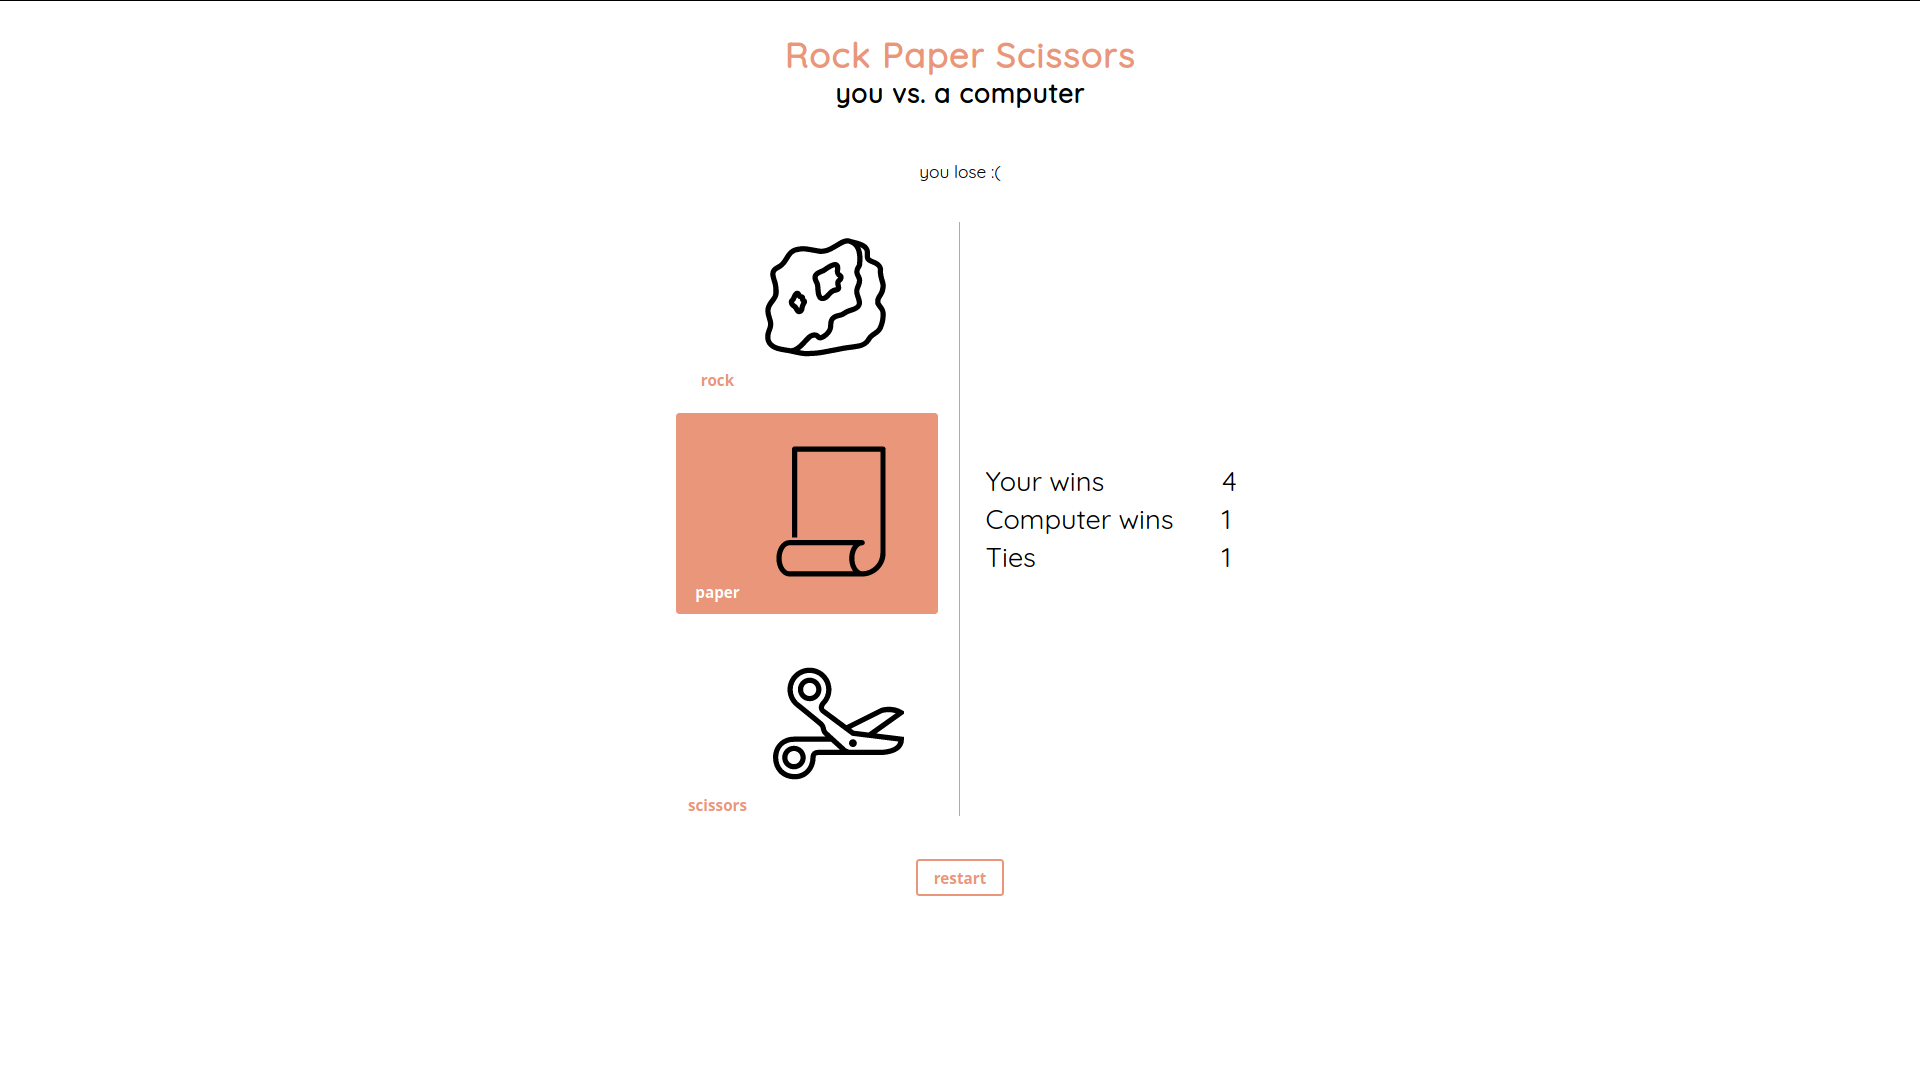
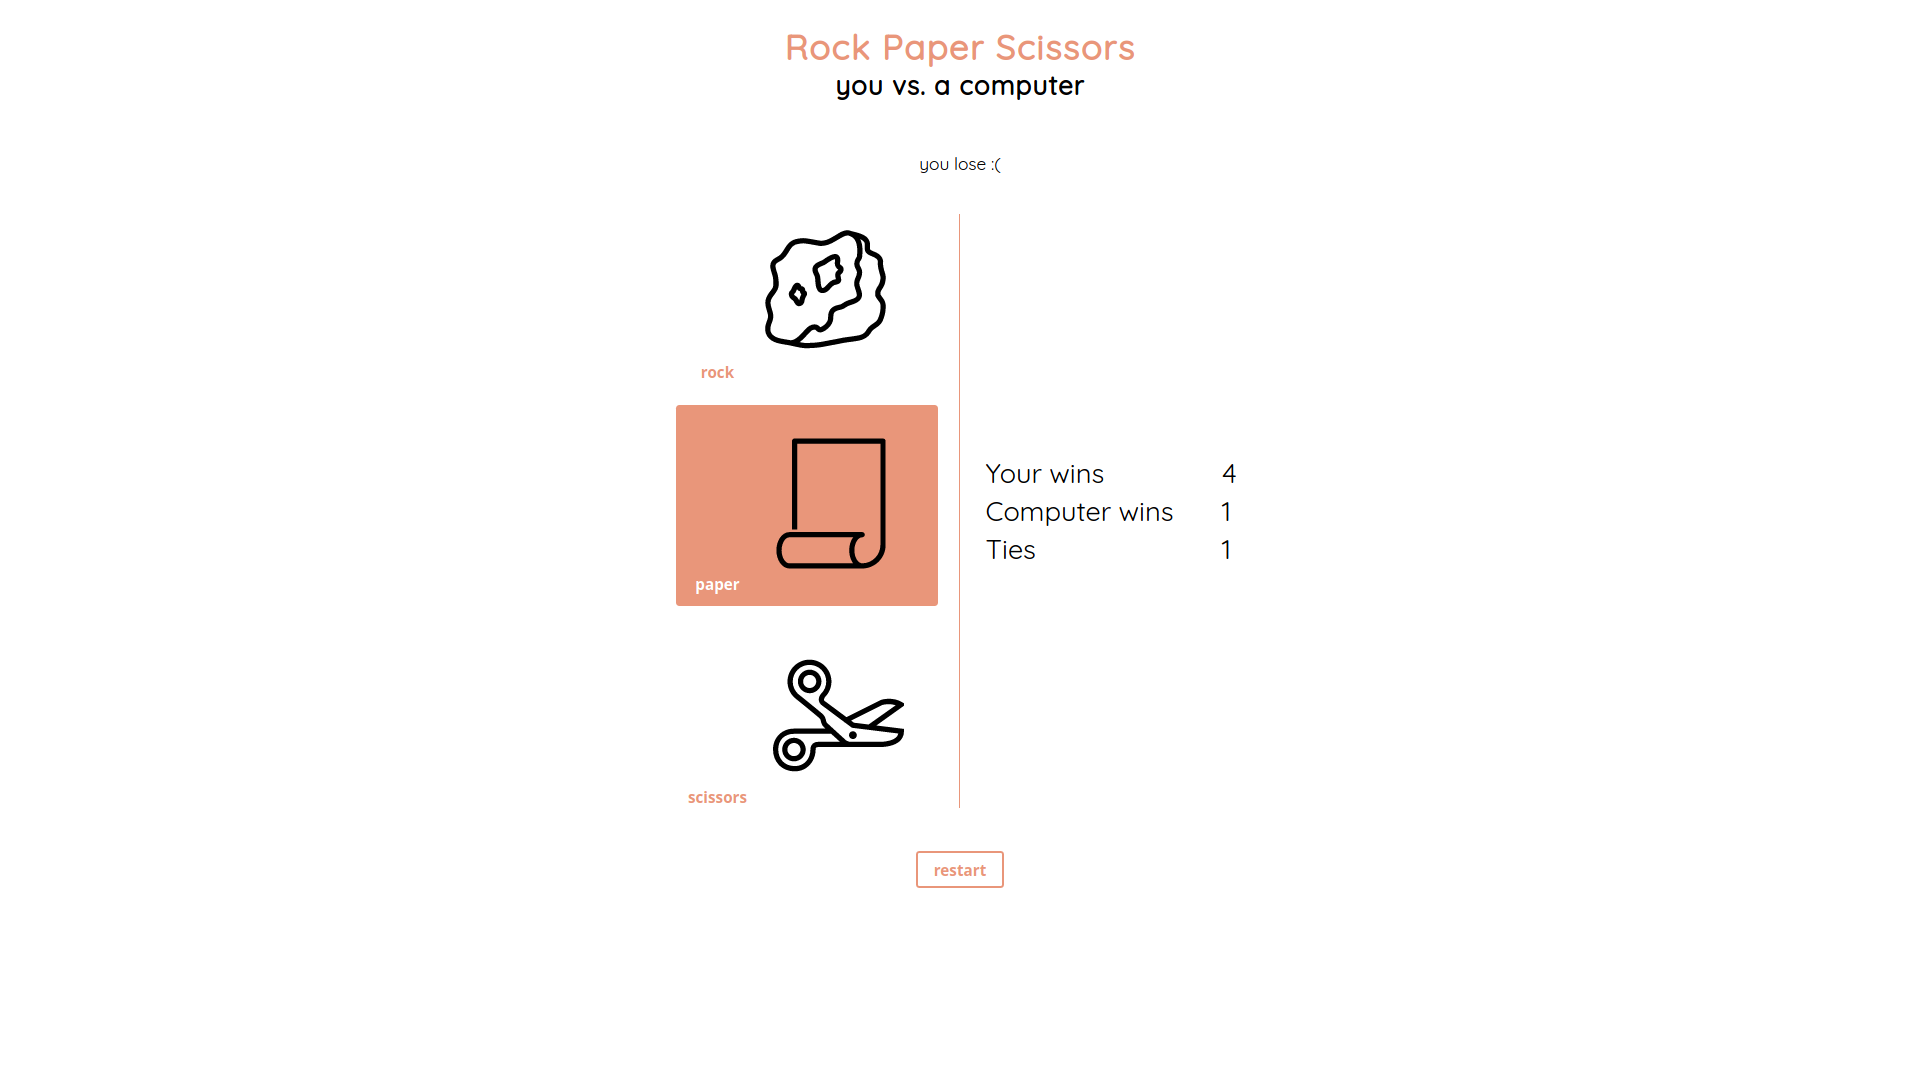
Crop navigation bar from screenshot

diff --git a/README.md b/README.md
@@ -2,7 +2,7 @@
 
 
 
-![screenshot preview of website](images/screenshot.png)
+![screenshot preview of website](images/crop.png)
 
 
 Images sources:
